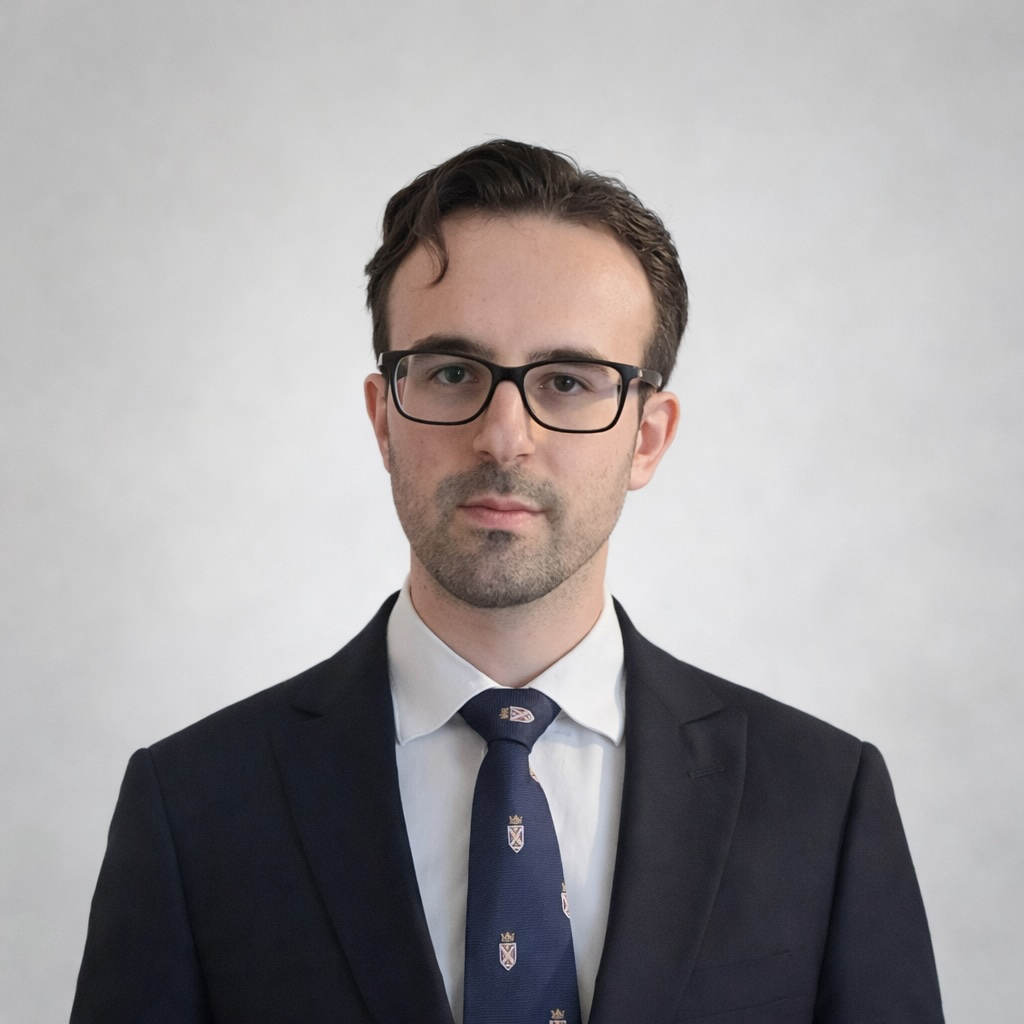
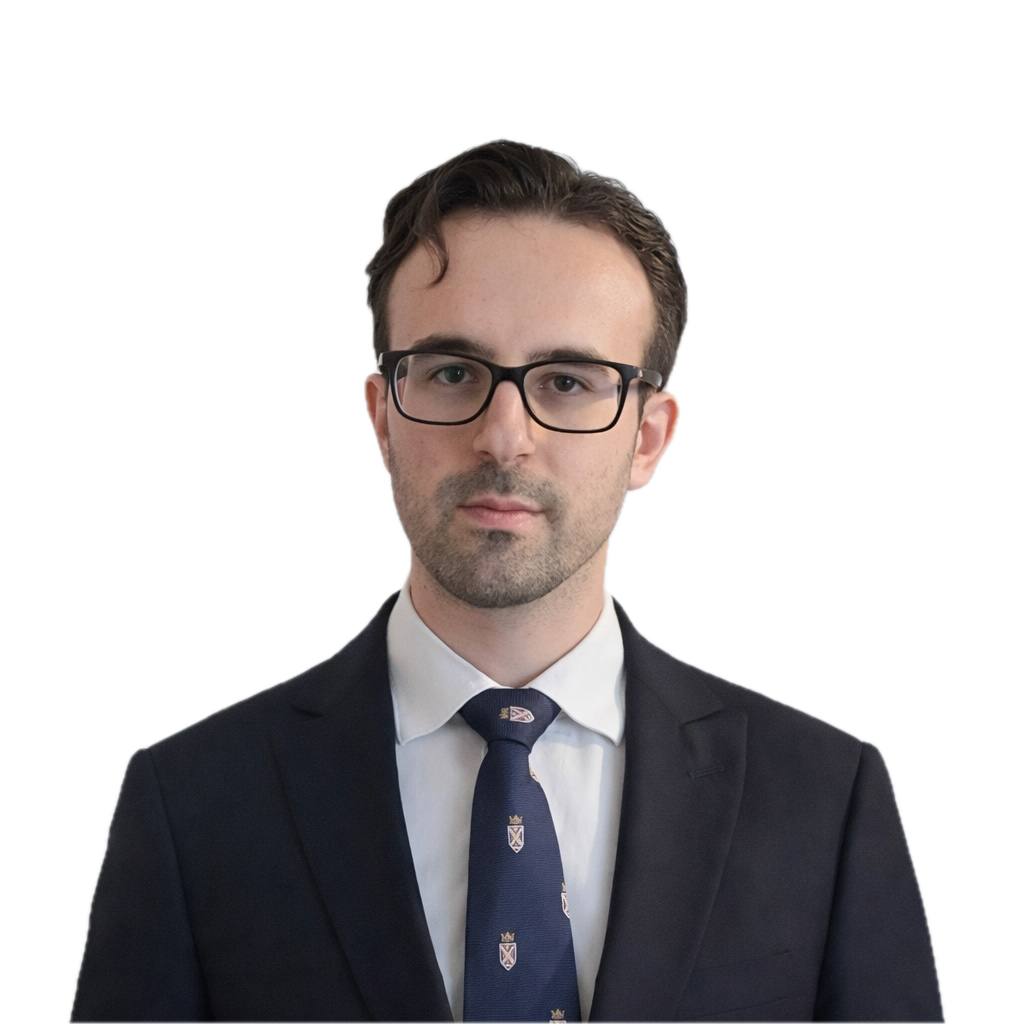
rollback to previous version

diff --git a/styles.css b/styles.css
@@ -198,8 +198,6 @@ header {
 .hero-image img {
     width: 100%;
     display: block;
-    -webkit-mask-image: linear-gradient(to left, black 75%, transparent 100%);
-    mask-image: linear-gradient(to left, black 75%, transparent 100%);
 }
 
 /* --- INFO BAR --- */